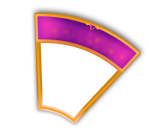
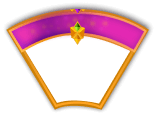
fix: [pak1] Update spin wheel promo bg

diff --git a/pak-static-h5/src/components/hotpromo/newPlayerWheel/LuckySpinWheel.vue b/pak-static-h5/src/components/hotpromo/newPlayerWheel/LuckySpinWheel.vue
@@ -58,7 +58,7 @@ const $q = useQuasar();
 const router = useRouter();
 
 // spin wheel constants
-const TOTAL_ITEMS = 8;
+const TOTAL_ITEMS = 6;
 const DEFAUL_SPEED = 1;
 const MAX_SPEED = 4;
 const FULL_DEGREE = 360;
@@ -214,7 +214,7 @@ const spinWheel = () => {
         }
         const prizeIndex = SPIN_WHEEL_PRIZES.findIndex((prize) => prize === bonusIndex);
 
-        spin(2, () => {
+        spin(3, () => {
           showPrizePopup.value = true;
           prizePopupBonusAmt.value = res.data.bonusAmount;
           remainingDraws.value = 0;
@@ -330,16 +330,17 @@ onMounted(() => {
   height: 100%;
 }
 .wheel-top-btn {
-  width: 137px;
-  height: 123px;
+  width: 155px;
+  height: 115px;
   position: absolute;
-  top: 24px;
-  left: 129px;
+  top: 21px;
+  left: 50%;
   right: 0;
-  z-index: 25;
+  z-index: 24;
+  transform: translateX(-50%);
   img {
-    width: 137px;
-    height: 123px;
+    width: 155px;
+    height: 115px;
   }
 }
 .draw-btn {
